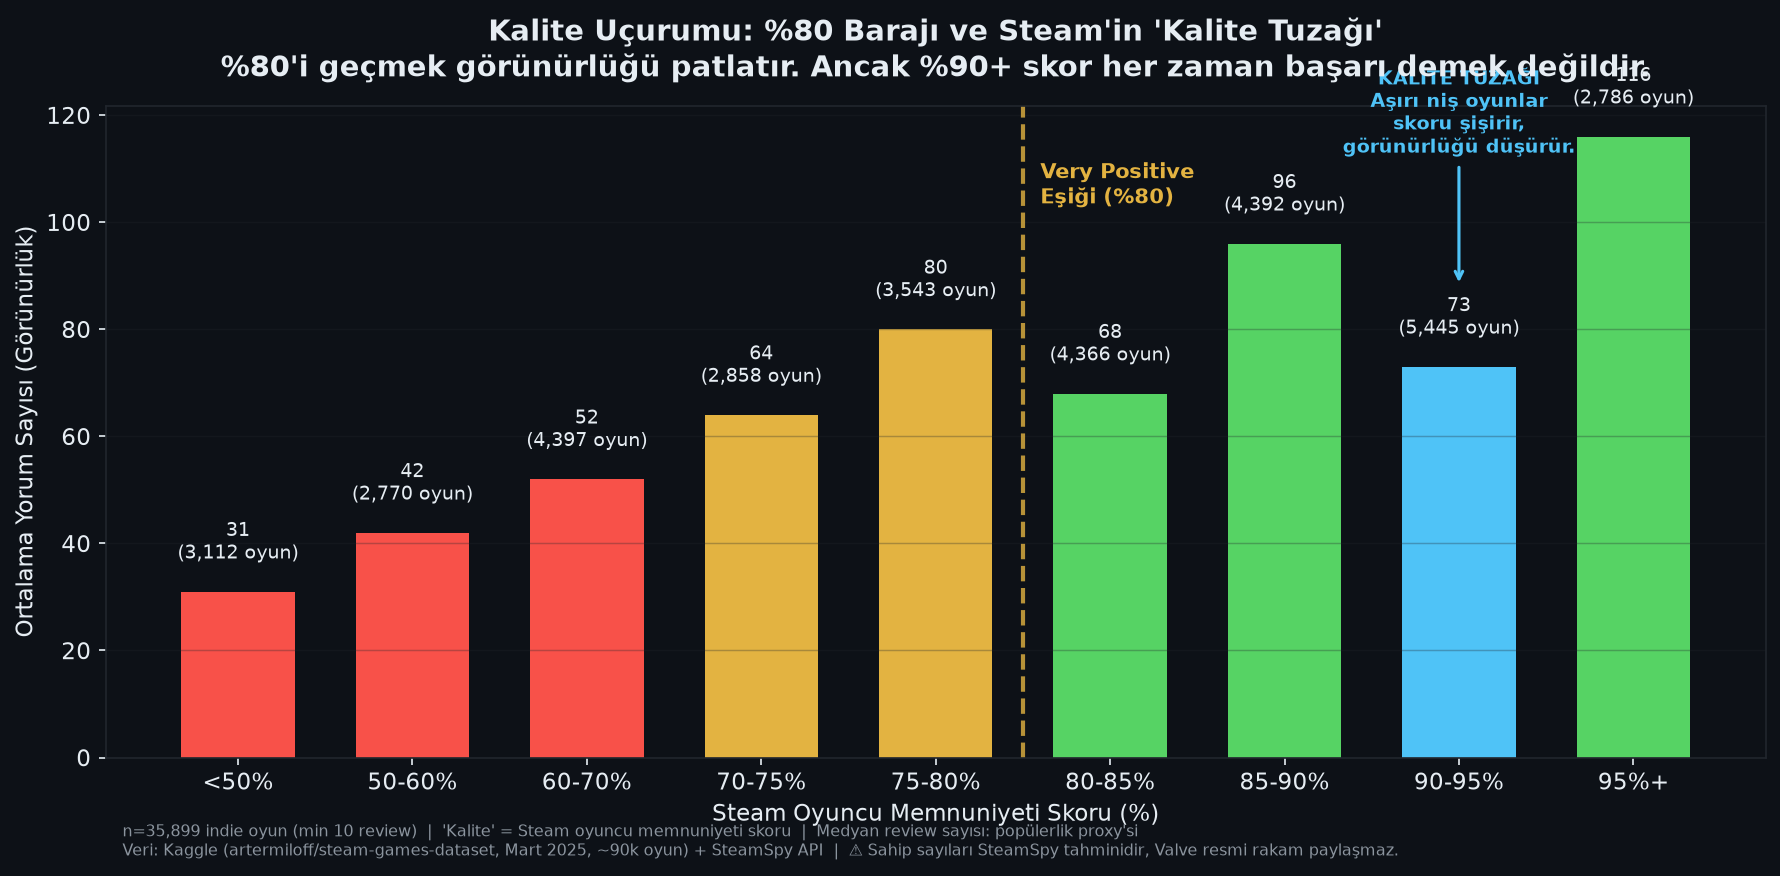
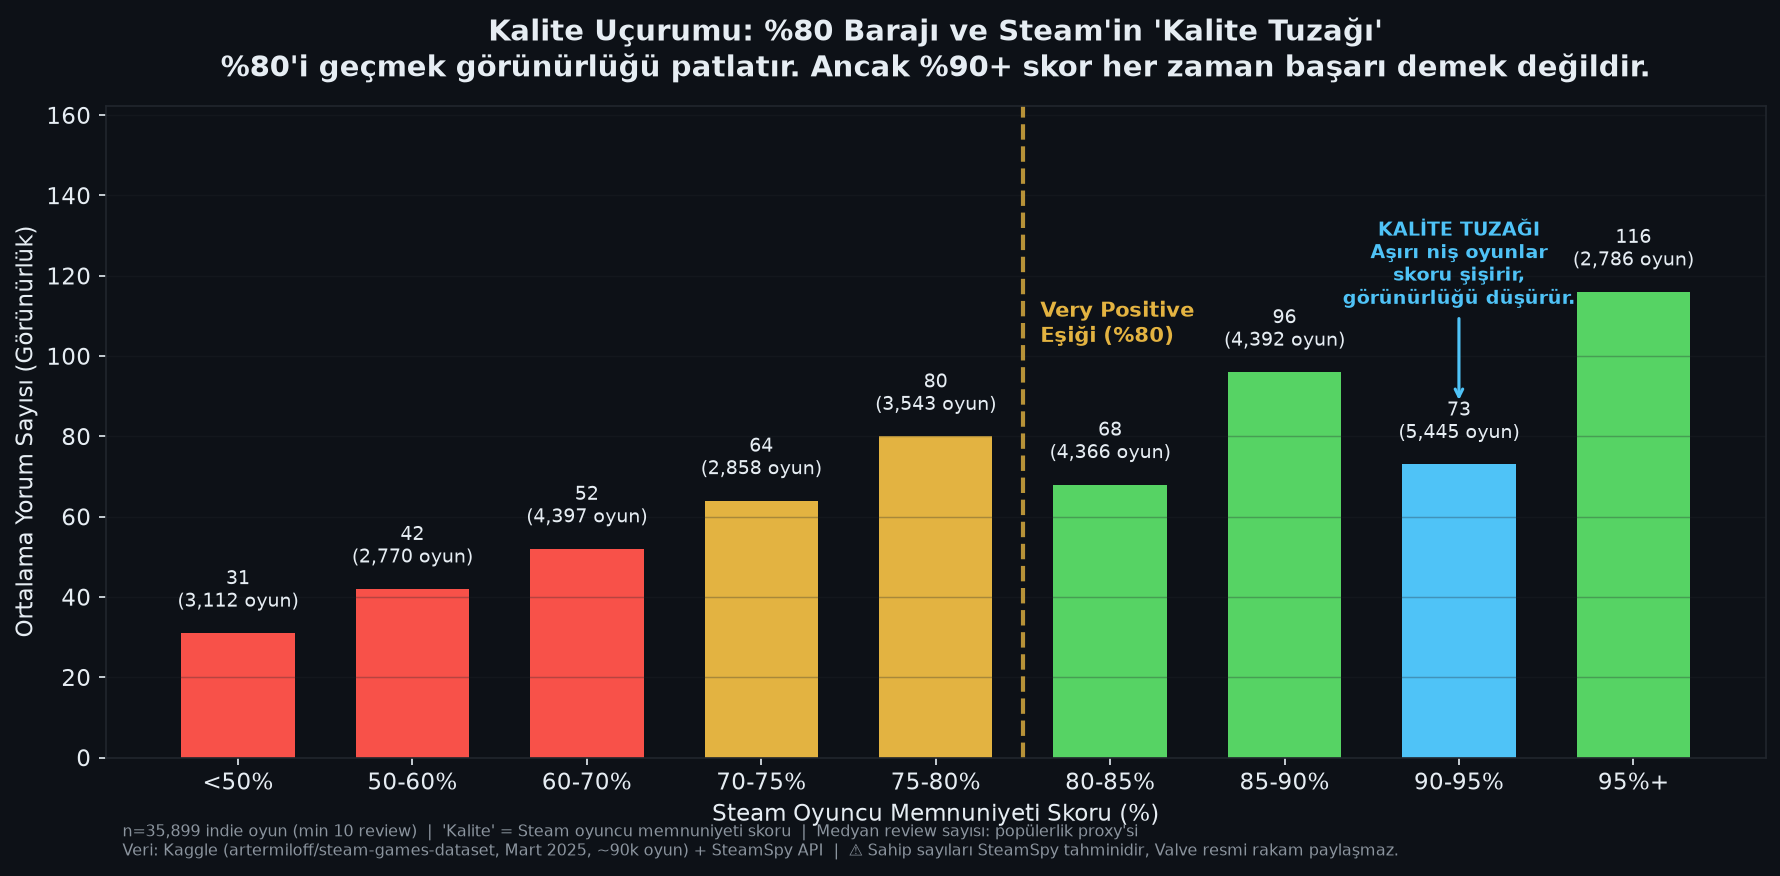
fix: increased Y-axis headroom on the 80pct cliff chart to prevent annotation overlap with title

diff --git a/src/visualizer.py b/src/visualizer.py
@@ -307,6 +307,10 @@ def chart_80pct_cliff(df):
                  fontweight="bold", pad=14)
     ax.set_xlabel("Steam Oyuncu Memnuniyeti Skoru (%)")
     ax.set_ylabel("Ortalama Yorum Sayısı (Görünürlük)")
+    
+    # Y ekseni limitini yükseltelim ki yazılar (Kalite Tuzağı notu vs.) başlığa çarpmasın
+    ax.set_ylim(0, stats["medyan_review"].max() * 1.4)
+    
     ax.grid(True, axis="y", alpha=0.3)
     _note(ax, f"n={n_total:,} indie oyun (min {MIN_REVIEWS_FOR_QUALITY} review)  |  "
               f"'Kalite' = Steam oyuncu memnuniyeti skoru  |  "
